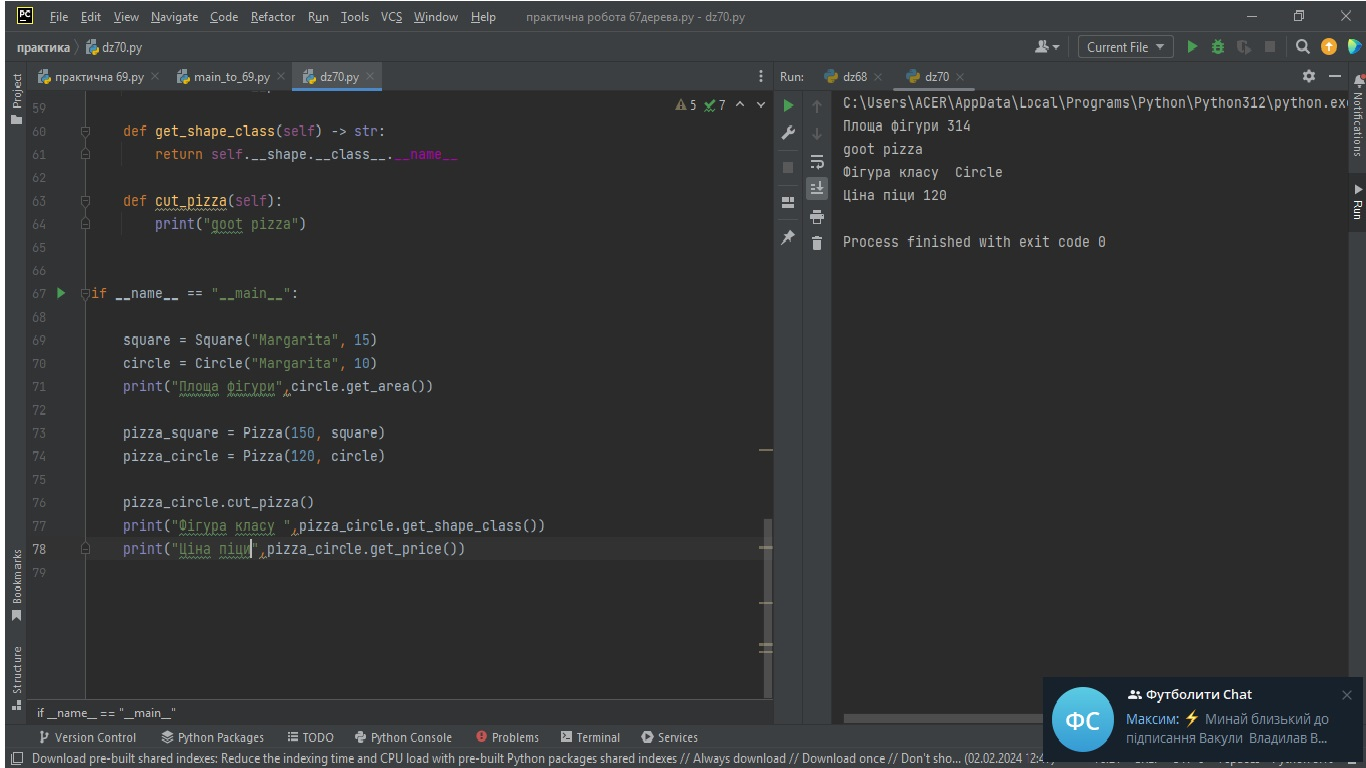
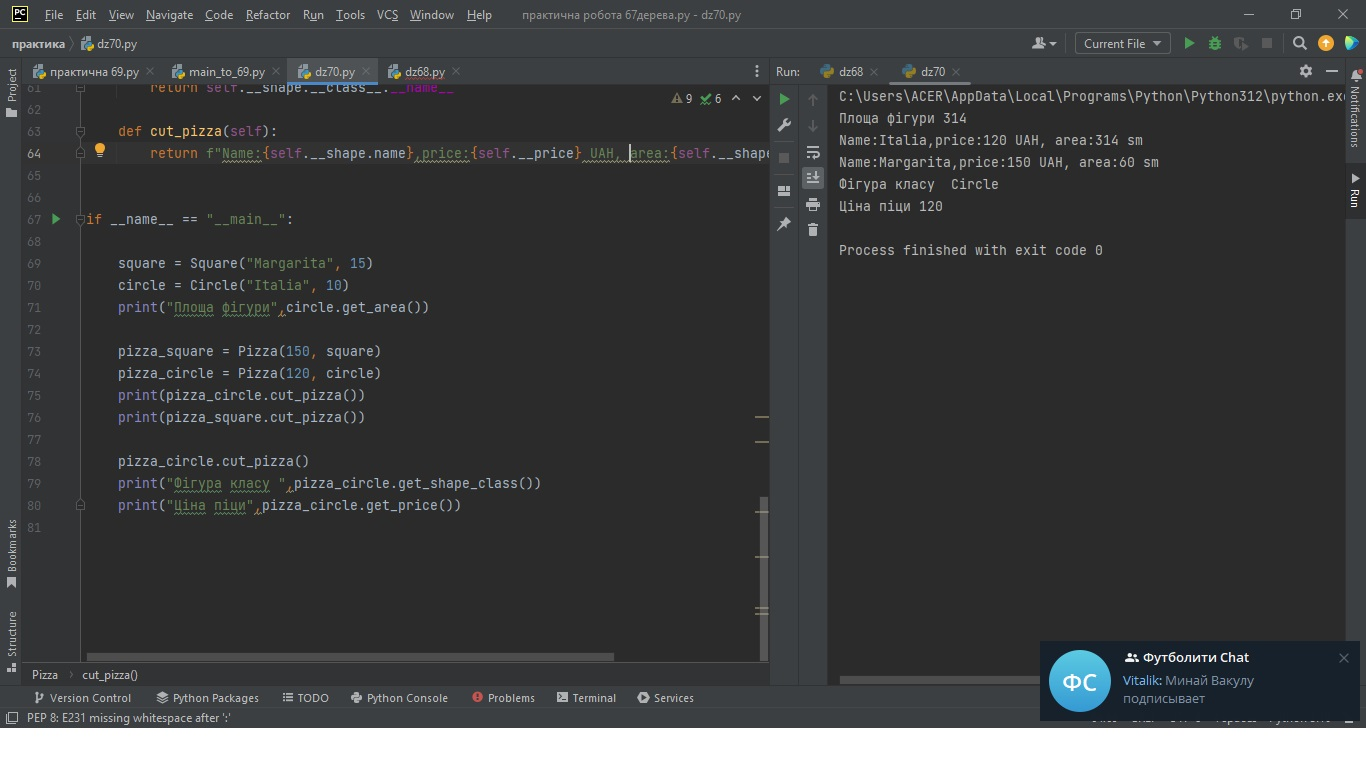
dz70

diff --git a/dz70/dz70.py b/dz70/dz70.py
@@ -50,7 +50,7 @@ class Circle(Shape):
 
 
 class Pizza:
-    def __init__(self, price: float, shape: IShape):
+    def __init__(self, price: float, shape:Shape):
         self.__price = price
         self.__shape = shape
 
@@ -61,17 +61,19 @@ class Pizza:
         return self.__shape.__class__.__name__
 
     def cut_pizza(self):
-        print("goot pizza")
+        return f"Name:{self.__shape.name},price:{self.__price} UAH, area:{self.__shape.get_area()} sm"
 
 
 if __name__ == "__main__":
 
     square = Square("Margarita", 15)
-    circle = Circle("Margarita", 10)
+    circle = Circle("Italia", 10)
     print("Площа фігури",circle.get_area())
 
     pizza_square = Pizza(150, square)
     pizza_circle = Pizza(120, circle)
+    print(pizza_circle.cut_pizza())
+    print(pizza_square.cut_pizza())
 
     pizza_circle.cut_pizza()
     print("Фігура класу ",pizza_circle.get_shape_class())
